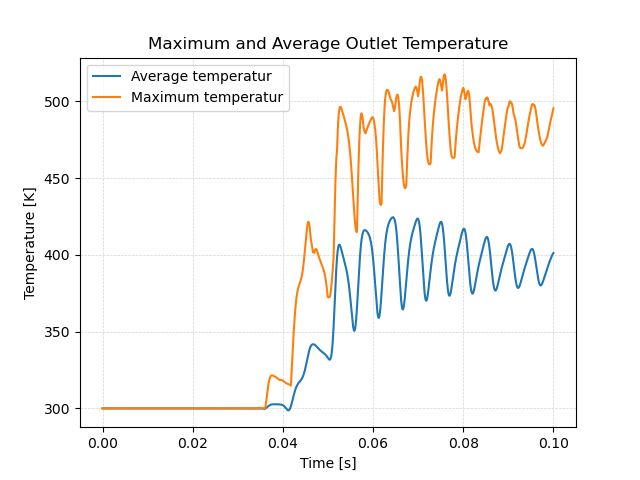
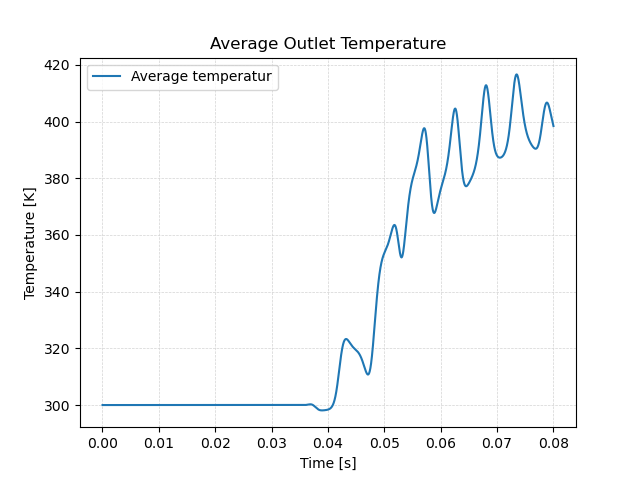
egr: solving updated

diff --git a/6_exhaust_gas_recirculation/2_solving.md b/6_exhaust_gas_recirculation/2_solving.md
@@ -10,7 +10,7 @@ nav_order: 2
 
 ## Running in Parallel
 
-By default, OpenFOAM does only run on a single CPU core on a computer (e.g. it runs in serial). Even for smaller cases this might lead to long computational times. For example, the mesh for this simulation consists of about 60.000 cells. A simulation on a single CPU core would take about 24 min to finish. In contrast, most modern workstation computer and laptops come equipped with 8 - 16 CPU cores (not including hyperthreading). So it would just make sense to run OpenFOAM in parallel using several CPU cores at once to speed up the simulation.
+By default, OpenFOAM does only run on a single CPU core on a computer (e.g. it runs in serial). Even for smaller cases this might lead to long computational times. For example, the mesh for this simulation consists of about 80.000 cells. A simulation on a single CPU core would take about 24 min to finish. In contrast, most modern workstation computer and laptops come equipped with 8 - 16 CPU cores (not including hyperthreading). So it would just make sense to run OpenFOAM in parallel using several CPU cores at once to speed up the simulation.
 
 Using OpenFOAM in parallel consists of three steps:
  1. Decomposing the mesh and initial/boundary conditions into individual processor folders,
@@ -49,56 +49,44 @@ Decomposing the exhaust gas recirculation system case for running in parallel re
 
 ### 2. Run in parallel
 
-Once the case has been decomposed, it can be solved in parallel using mpi (Message Passing Interface), which organizes the processor-processor communication. Instead of just typing `rhoPimpleFoam` into the terminal, for a parallel execution the command is as follows:
+Once the case has been decomposed, it can be solved in parallel using mpi (Message Passing Interface), which organizes the processor-processor communication. Instead of just typing `foamRun` into the terminal, for a parallel execution the command is as follows:
 
 ```bash
-mpirun -np 4 rhoPimpleFoam -parallel
+mpirun -np 4 foamRun -parallel
 ```
 
-Here, `mpirun` takes care of the parallel execution, `-np 4` is an additional option specifying the number of processors used (here: 4), `rhoPimpleFoam` is the executable run in parallel and `-parallel` an additional option, so OpenFOAM knows to run the solver in parallel. Results folders created during parallel execution are stored in their respective processor folder. Furthermore, post-processing function objects are stored as normal in the `postProcessing` directory.
+Here, `mpirun` takes care of the parallel execution, `-np 4` is an additional option specifying the number of processors used (here: 4), `foamRun` is the executable run in parallel and `-parallel` an additional option, so OpenFOAM knows to run the solver in parallel. Results folders created during parallel execution are stored in their respective processor folder. Furthermore, post-processing function objects are stored as normal in the `postProcessing` directory.
 
 The progress of the job is written to the terminal window like normal. It tells the user the current time step (e.g. iteration in steady-state simulations), the equations being solved, initial and final residuals for all fields and should look like follows:
 
 
+```
+Courant Number mean: 0.0240667 max: 0.234012
+Time = 0.08s
 
+diagonal:  Solving for rho, Initial residual = 0, Final residual = 0, No Iterations 0
+smoothSolver:  Solving for Ux, Initial residual = 0.00584081, Final residual = 3.60744e-06, No Iterations 1
+smoothSolver:  Solving for Uy, Initial residual = 0.00152905, Final residual = 1.06892e-06, No Iterations 1
+smoothSolver:  Solving for Uz, Initial residual = 0.00117061, Final residual = 1.0538e-06, No Iterations 1
+smoothSolver:  Solving for h, Initial residual = 0.000756259, Final residual = 5.4808e-07, No Iterations 1
+GAMG:  Solving for p, Initial residual = 0.00737078, Final residual = 1.37979e-05, No Iterations 1
+diagonal:  Solving for rho, Initial residual = 0, Final residual = 0, No Iterations 0
+time step continuity errors : sum local = 8.74165e-08, global = -1.77969e-09, cumulative = 4.61467e-05
+GAMG:  Solving for p, Initial residual = 2.44065e-05, Final residual = 3.76191e-07, No Iterations 2
+diagonal:  Solving for rho, Initial residual = 0, Final residual = 0, No Iterations 0
+time step continuity errors : sum local = 2.37826e-09, global = 1.93121e-10, cumulative = 4.61469e-05
+smoothSolver:  Solving for omega, Initial residual = 0.000145111, Final residual = 1.43467e-07, No Iterations 1
+smoothSolver:  Solving for k, Initial residual = 0.00118793, Final residual = 1.22708e-06, No Iterations 1
+bounding k, min: -0.373581 max: 49.3845 average: 0.382731
+ExecutionTime = 482.009 s  ClockTime = 499 s
 
-In order to start the simulation, we have to execute corresponding the OpenFOAM application. As defined in the `controlDict`, the solver `rhoPimpleFoam` will be used, suitable for transient, compressible, laminar or turbulent flows.
-
-
-
- This application can be started by typing the appropriate command in the terminal from within the case directory:
-
-```bash
-rhoPimpleFoam
 ```
 
-The progress of the job is written to the terminal window. It tells the user the current iteration, the equations being solved, initial and final residuals for all fields and should look like follows:
-
-```
-Courant Number mean: 0.0231348 max: 0.692643
-Time = 0.04652
-
-PIMPLE: iteration 1
-diagonal:  Solving for rho, Initial residual = 0, Final residual = 0, No Iterations 0
-smoothSolver:  Solving for Ux, Initial residual = 0.00113556, Final residual = 6.34284e-07, No Iterations 1
-smoothSolver:  Solving for Uy, Initial residual = 0.000635827, Final residual = 3.65292e-07, No Iterations 1
-smoothSolver:  Solving for Uz, Initial residual = 0.00327433, Final residual = 2.0464e-09, No Iterations 2
-smoothSolver:  Solving for h, Initial residual = 0.00158282, Final residual = 8.79904e-10, No Iterations 2
-GAMG:  Solving for p, Initial residual = 0.0355897, Final residual = 4.33579e-05, No Iterations 1
-diagonal:  Solving for rho, Initial residual = 0, Final residual = 0, No Iterations 0
-time step continuity errors : sum local = 1.17717e-07, global = -4.46739e-09, cumulative = 1.27345e-05
-GAMG:  Solving for p, Initial residual = 5.75699e-05, Final residual = 7.2923e-07, No Iterations 5
-diagonal:  Solving for rho, Initial residual = 0, Final residual = 0, No Iterations 0
-time step continuity errors : sum local = 1.98789e-09, global = -1.20932e-11, cumulative = 1.27345e-05
-smoothSolver:  Solving for omega, Initial residual = 3.61447e-05, Final residual = 1.39389e-08, No Iterations 1
-smoothSolver:  Solving for k, Initial residual = 0.000695609, Final residual = 3.04741e-07, No Iterations 1
-ExecutionTime = 254.95 s  ClockTime = 266 s
-```
-
-This output at time 0.04652 tells us in summary:
-- The solvers being used for the different governing equations, initial and final residuals, and the number of iterations per time step.
-- The error of the conservation of mass is denoted as `continuity error`. Since its value is very small, conservation of mass is maintained.
-- The execution time for the simulation up to this iteration is roughly 255 seconds as indicated by the `ExecutionTime`.
+This output at time 0.08 tells us in summary:
+ - Mean and maximum Courant number in the computational domain.
+ - The solvers being used for the different governing equations, initial and final residuals, and the number of iterations per time step.
+ - The error of the conservation of mass is denoted as `continuity error`. Since its value is very small, conservation of mass is maintained.
+ - The execution time for the simulation up to this iteration is roughly 499 seconds as indicated by the `ExecutionTime`.
 
 
 ### 3. Reconstructing the case
@@ -119,157 +107,74 @@ This tool automatically reconstructs all time folders in the individual processo
 
 ## Monitoring the Simulation
 
-In order to monitor the simulation during its run and for postprocessing, several function objects are added at the bottom of the `controlDict`.
-
-### Residuals
-
-In order to visualize the residuals to help judge convergence, the function object `solverInfo` has been added to the `controlDict`. It saves the initial residuals of the fields `(p U h k omega)`, so pressure, velocity, enthalpy, turbulent kinetic energy, and specific dissipation rate, during runtime in the `postProcessing` folder under the following path: `postProcessing/solverInfo/0/solverInfo.dat`.
+Four function objects are defined in the `functions` file in the `system` folder to monitor the run:
 
 ```
-functions
-{
-    solverInfo
-    {
-        type            solverInfo;
-        libs            (utilityFunctionObjects);
-        fields          (p U h k omega);
-    }
+#includeFunc residuals
+(
+    name    = residuals,
+    fields  = (p U h k omega)
+)
 
-...
-}
+#includeFunc probes
+(
+    name    = probes,
+    fields  = (T),
+    points  = 
+        (
+            (0.12 0 0)
+            (0.15 0 0)
+            (0.18 0 0)
+        )
+)
+
+#includeFunc patchAverage
+(
+    name    = avgT,
+    patch   = outlet,
+    fields  = (T)
+)
+#includeFunc cellMax
+(
+    name    = maxT,
+    fields  = (T)
+)
 ```
 
-Either during runtime or once the simulation has finished, the data written by the function objects can be analyzed. This data can typically be plotted in a diagram using Microsoft Excel, Python, Gnuplot or any other tool. In order to quickly evaluate the monitored results from the function objects, a script is added to the case directory called `create_plots.py`. Executing it will automatically create the diagrams for residuals. By typing the following command in the terminal, the diagrams are created using Python and stored as png file:
+The `residuals` object writes the initial residuals of `(p U h k omega)`, so pressure, velocity, enthalpy, turbulent kinetic energy and specific dissipation rate, to `postProcessing/residuals/0/residuals.dat` at every time step.
 
-```bash
-python3 create_plots.py
-```
+The `probes` function object evaluates temperature at pre-defined monitor points and stores it under `postProcessing/probes/0/T`. In this case, three points are defined just below where the exhaust pipe intersects with the air pipe and further downstream as shown in the following figure:
 
-This creates the following diagram of the residuals on the $$y$$-axis plotted against time on the $$x$$-axis in the case folder:
+![Exhaust gas recirculation system case probe locations](figures/exhaust-gas-recirculation-probes.png)
+
+The `patchAverage` function object evaluates the average temperature at the outlet patch and writes it to `postProcessing/avgT/0/surfaceFieldValue.dat`. The `cellMax` function object tracks the maximum temperature in the computational domain and stores it under `postProcessing/maxT/0/volFieldValue.dat`,
+
+In order to quickly evaluate the monitored data, a script is added to the diffuser case directory called `create_plots.py`. Executing it will automatically create the diagrams and store them as png file.
+
+
+
+The following diagram shows the residuals on the $$y$$-axis plotted against time on the $$x$$-axis:
 
 ![Exhaust gas recirculation system case residuals](figures/diagram-residuals.png)
 
 The plot shows that while there is a clear trend in falling residuals, this trend is superimposed by large oscillations. This indicates that this is a stronly transient flow with no stationary state.
 
+The diagram of the temperature over time for the individual probe points is follows:
 
+![Exhaust gas recirculation system case probe temperature](figures/diagram-probes.png)
 
-### Probes
+It takes about 0.01 seconds until the hot exhaust gas reaches the location of the probe points. Then, their temperature rises quickly. At the end of the simulation, directly below the t-junction at probe 1, the temperature is highest with a maximum of over $$900\,\text{K}$$. Probe 2 has the somewhat lower temperature values of around $$750\,\text{K}$$. However, probe 3 monitores the lowest temperaturewith values below $$600\,\text{K}$$ due to the mixing of cold air and hot exhaust gas.
 
-Additionally, a second function object named `probes` in the `controlDict` evaluates pressure, velocity and temperature in pre-defined monitor points. In this case, three points are defined just below where the exhaust pipe intersects with the air pipe and further downstream as shown in the following figure:
-
-![Exhaust gas recirculation system case probe locations](figures/exhaust-gas-recirculation-probes.png)
-
-The values are written out every time step and help in analysing the transient flow behaviour and detect possible characteristic frequencies. The function object itself is configured as follows:
-
-```
-functions
-{
-...
-    
-    probes
-    {
-        type            probes;
-        libs            (sampling);
-        writeControl    timeStep;
-        writeInterval   1;
-
-        fields
-        (
-            T
-        );
-
-        probeLocations
-        (
-            (0.12 -0.15 0.0)
-            (0.15 -0.15 0.0)
-            (0.18 -0.15 0.0)
-        );
-    }
-}
-```
-
-By using the provided `create_plots.py` Python script, a diagram of the temperature over time for the individual probe points is created:
-
-![Exhaust gas recirculation system case probe temperature](figures/diagram-probe-temperature.png)
-
-It takes about 0.01 seconds until the hot exhaust gas reaches the location of the probe points. Then, their temperature rises quickly. Directly below the t-junction at probe 1, the temperature is lowest with a maximum of $$500\,\text{K}$$. Probe 2 has the highest temperature of around $$850\,\text{K}$$ at the end of the simulation. However, probe 3 sits in between with a lower temperature in the range of $$600\,\text{K}$$ due to the mixing of cold air and hot exhaust gas. Note that the maximum and minimum temperature is actually above and below the inlet temperatures of $$900\,\text{K}$$ and $$300\,\text{K}$$, respectively. This is **unphysical** and probably due to the unlimited gradient in the second order upwind discretication scheme.
-
-
-### Average and Maximum Outlet Temperature
-
-For exhaust gas recirculation systems the maximum and average outlet temperature is essential to avoid the damage of downstream engine components due to exessive temperature. Therefore, two additional function object are added to compute maximum and average outlet temperature of the mixing gas. The first one, called `average_outlet_temperature` is of type `surfaceFieldValue` and compute the area-weighted average of the temperature field at a region of type `patch` with the name of that patch `outlet`. Similar, the second one called `maximum_outlet_temperature` is also of type `surfaceFieldValue` and computes the maximum face temperature at the outlet patch.
-
-```
-functions
-{
-...
-
-    average_outlet_temperature
-    {
-        type            surfaceFieldValue;
-        libs            (fieldFunctionObjects);
-
-        fields          (T);
-        operation       areaAverage;
-
-        regionType      patch;
-        name            outlet;
-        writeFields     false;
-    }
-    
-    maximum_outlet_temperature
-    {
-        type            surfaceFieldValue;
-        libs            (fieldFunctionObjects);
-
-        fields          (T);
-        operation       max;
-
-        regionType      patch;
-        name            outlet;
-        writeFields     false;
-    }
-}
-```
-
-Similar to the previous plots, these results indicate a strongly transient flow problem with a maximum temperature of up to $$500\,\text{K}$$ and an average temperature of around $$400\,\text{K}$$.
+The average temperature at the outlet patch is shown next:
 
 ![Exhaust gas recirculation system case outlet temperature](figures/diagram-outlet-temperature.png)
 
+Similar to the previous plots, these results indicate a strongly transient flow problem with an average temperature of about $$400\,\text{K}$$.
 
+The maximum temperature in the copmutational domain is as follows:
 
-### Average Flow Field
+![Exhaust gas recirculation system case outlet temperature](figures/diagram-max-temperature.png)
 
-Since the flow problem seems to be highly transient, averaged flow fields over time can be handy for postprocessing. Therefore, a final function object called `fieldAverage` is added, which averages the temperature and velocity field over every time step. The resulting fields, `TMean` for temperature and `UMean` for velocity, are written out whenever a results folder would be written out with the entry `writeControl` set to `writeTime`. The function object is configured as follows:
-
-```
-functions
-{
-    ...
-    
-    fieldAverage
-    {
-        type            fieldAverage;
-        libs            (fieldFunctionObjects);
-        writeControl    writeTime;
-
-        fields
-        (
-            U
-            {
-                mean        on;
-                prime2Mean  off;
-                base        time;
-            }
-            T
-            {
-                mean        on;
-                prime2Mean  off;
-                base        time;
-            }
-        );
-    }
-}
-```
+Note that the maximum is actually above the inlet temperatures of $$900\,\text{K}$$. This is **unphysical** and needs further investigation. It is probably due to the unlimited gradient in the second order upwind discretication scheme.
 
 This concludes the setup of the exhaust gas recirculation system and the configuration of function objects for runtime postpressing.
